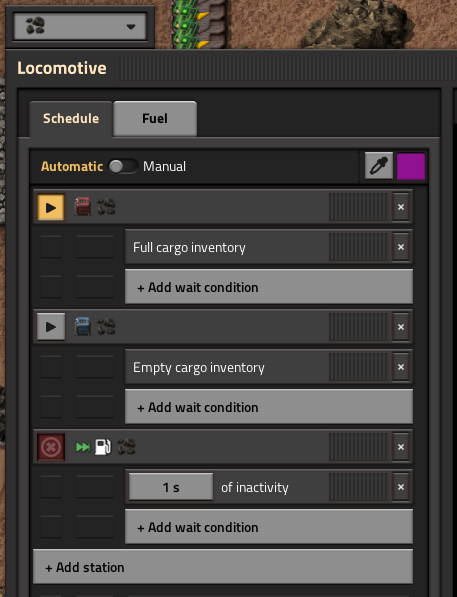
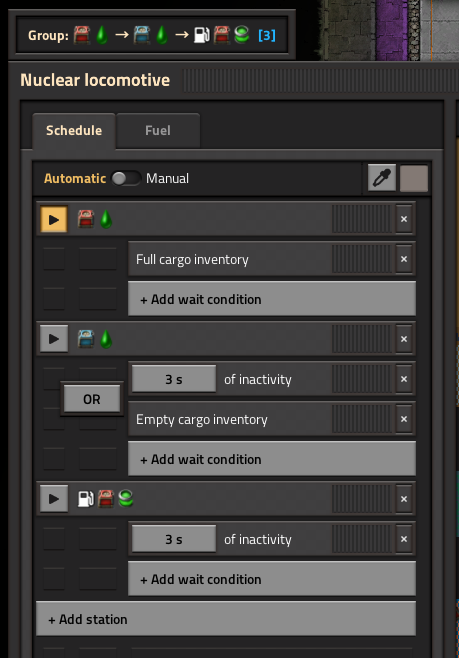
Update README and screenshots

diff --git a/README.md b/README.md
@@ -1,6 +1,6 @@
 # Train Groups
 
-Train Groups is a Factorio mod enabling you to sync the schedules of multiple trains. Includes support for the [Train Control Signals](https://mods.factorio.com/mod/Train_Control_Signals) mod.
+Train Groups is a Factorio mod enabling you to sync the schedules of multiple trains.
 
 ## Download
 
@@ -8,13 +8,13 @@ Download on the [Factorio mod portal](https://mods.factorio.com/mod/TrainGroups)
 
 ## Features
 
-The mod adds a group dropdown to the top of the train GUI.
+The mod adds a new button to the top of the train GUI.
 
 ![](screenshots/no-group.png)
 
-Clicking this dropdown allows you to view all created groups, or create a new group.
+Clicking this button allows you to select or create a train group.
 
-![](screenshots/create-group-and-list.png)
+![](screenshots/change-group.png)
 
 Changing to a group will sync the train's schedule to the other trains in that group.
 
@@ -22,9 +22,15 @@ Changing to a group will sync the train's schedule to the other trains in that g
 
 Any changes made to a schedule will be immediately reflected in the schedules of all trains in the group. Temporary stations will be ignored.
 
+The mod also adds a widget to the train overview GUI that lists your groups, and allows you to rename or delete them.
+
+![](screenshots/overview.png)
+
+If you have no groups, the mod will offer to auto-create them based on train schedule.
+
 ## Compatibility
 
-In general, any changes made to schedules by mods will be ignored; only edits made by players will be synced. The following exceptions have been made:
+In general, any changes made to schedules by mods will be ignored; only edits made by players will be synced. The following mods have extra compatibility:
 
 ### Train Control Signals
 
